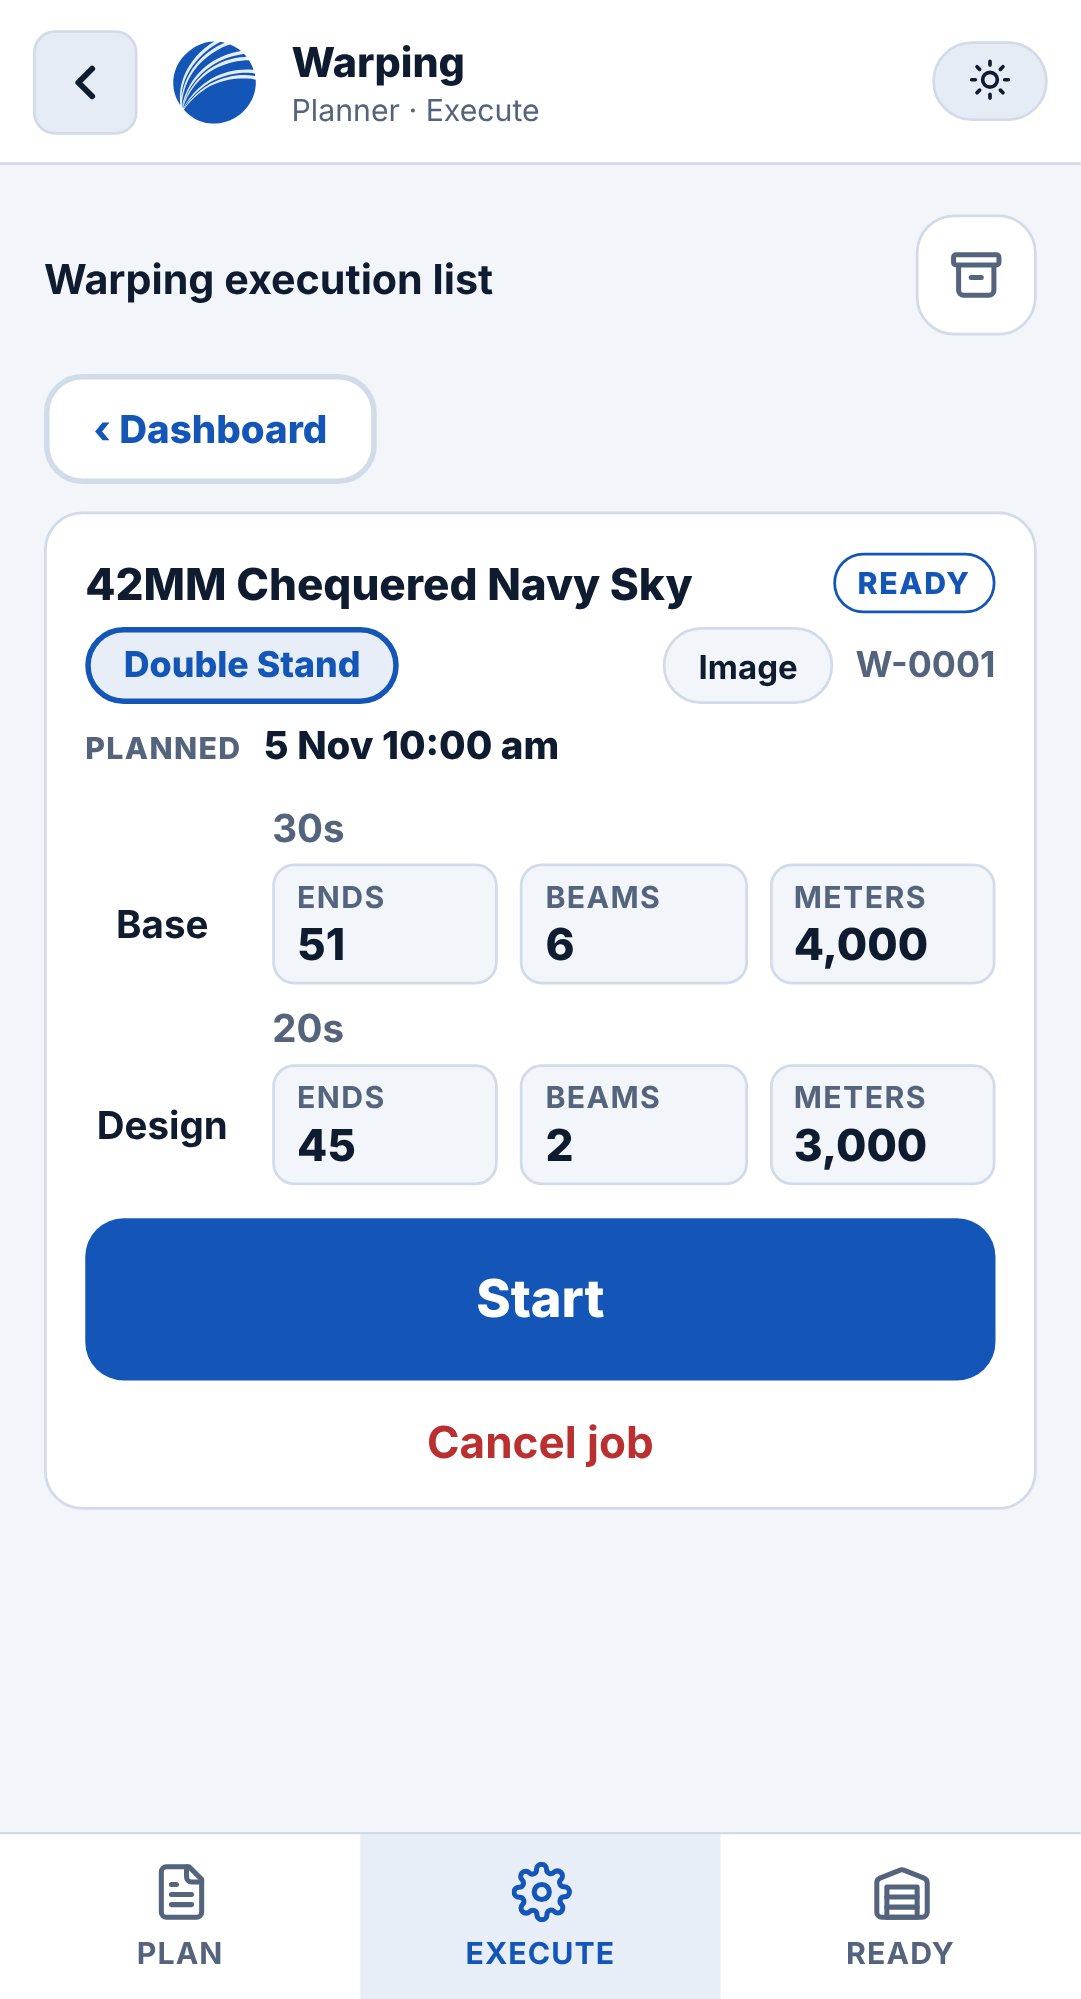
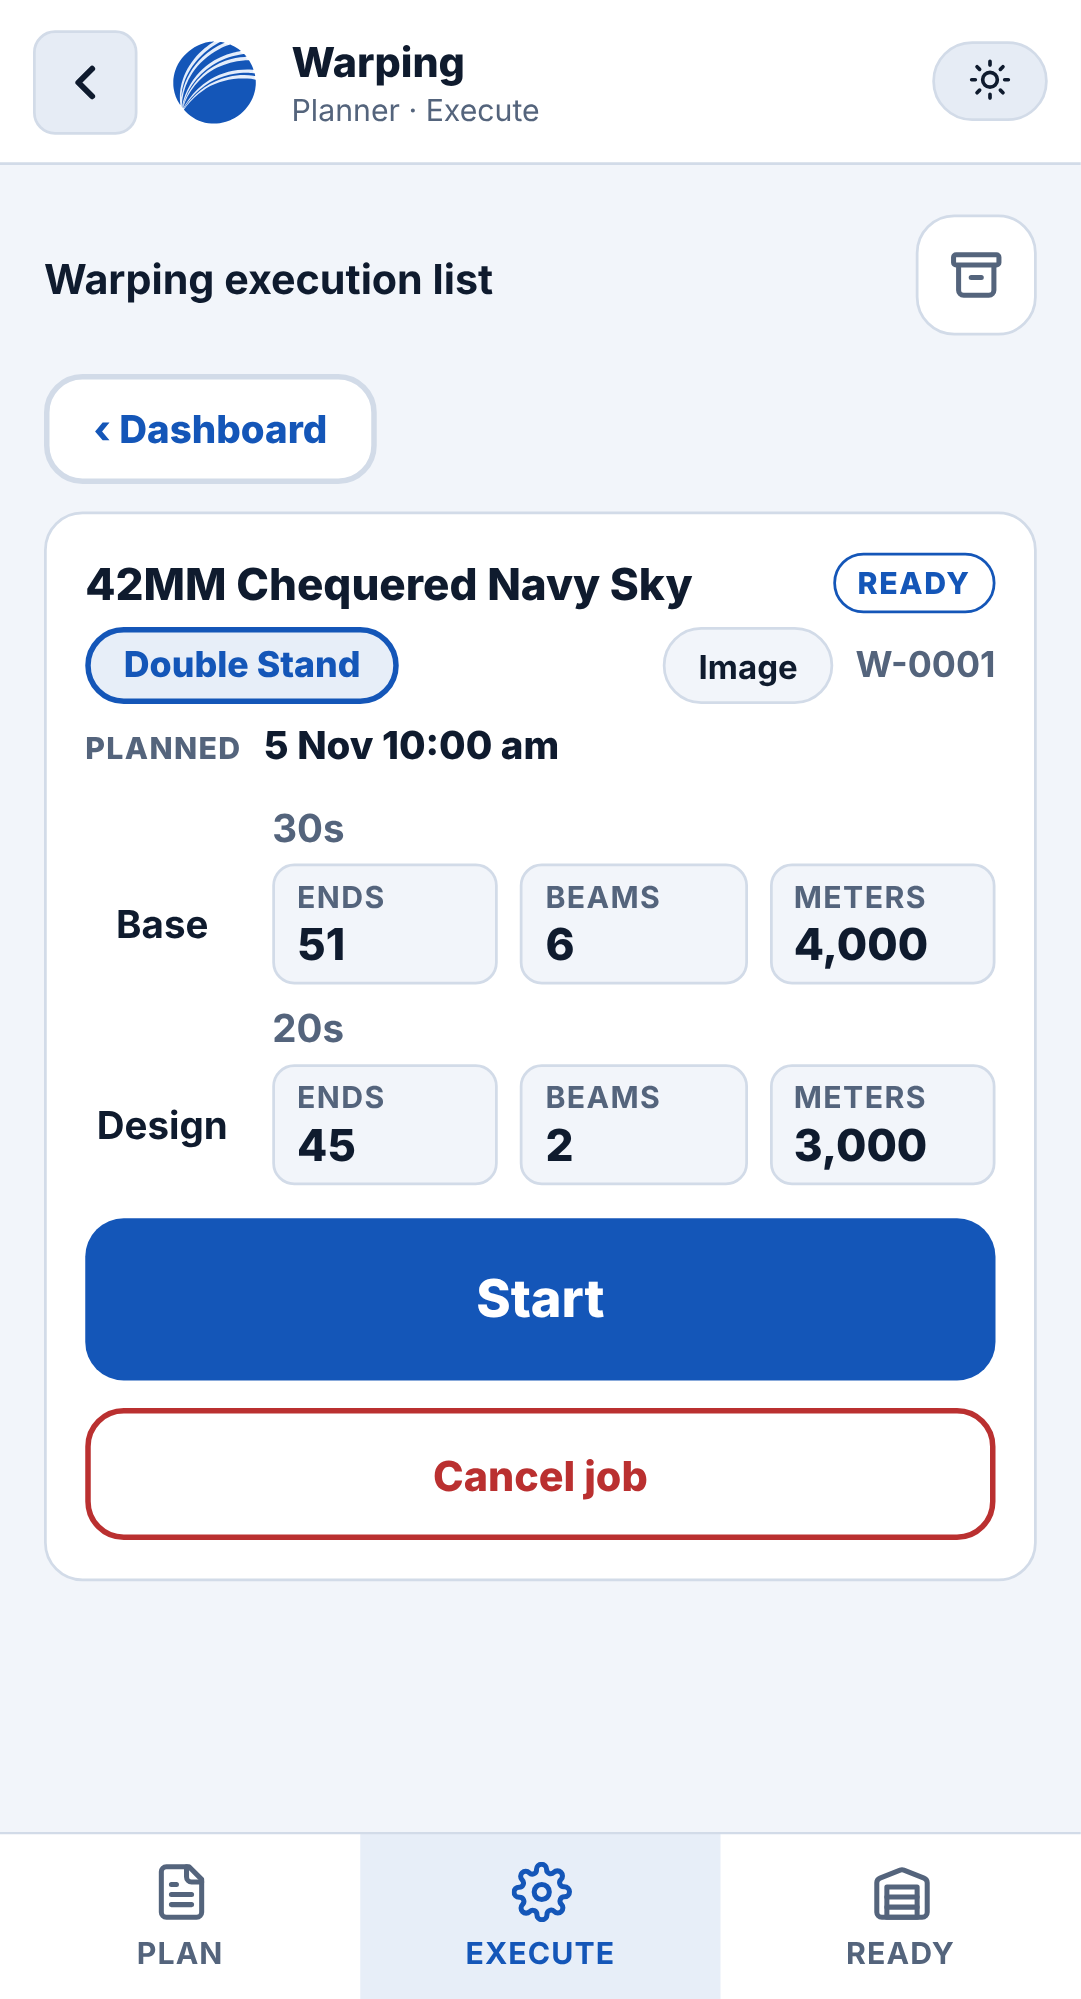
Warping: notes optional, Add note button when empty (v185)
Claude-Session: https://claude.ai/code/session_013qk7FSdSmrsDn8iJYfp5m6

Changed region(s): [[0.0611, 0.6823, 0.9463, 0.7754], [0.8853, 0.6823, 0.9158, 0.7134], [0.0916, 0.6823, 0.1221, 0.7134]]

diff --git a/index.html b/index.html
@@ -674,6 +674,7 @@ button.wp-sbox{cursor:pointer}
 .wp-note{display:block;width:100%;box-sizing:border-box;margin-top:10px;padding:11px 12px;border:1px solid var(--border);border-radius:var(--radius);background:var(--bg);color:var(--text);font:inherit;font-size:17px;font-weight:600;line-height:1.35;resize:vertical;min-height:60px}.wp-note::placeholder{color:var(--text-muted);font-weight:500}.wp-note:focus{outline:none;border-color:var(--accent)}
 .wp-noterow{display:flex;gap:8px;align-items:stretch;margin-top:10px}.wp-noterow .wp-note{margin-top:0;flex:1;min-width:0}.wp-notesave{flex:none;width:48px;border-radius:var(--radius-sm);border:1px solid var(--accent-strong);background:var(--accent-strong);color:var(--on);display:grid;place-items:center;cursor:pointer}.wp-notesave .ic{width:24px;height:24px;stroke:var(--on)}.wp-notesave:disabled{opacity:.5}
 .wp-notev{display:flex;gap:10px;align-items:flex-start;justify-content:space-between;margin-top:10px;padding:10px 12px;border-radius:var(--radius);background:var(--accent-soft)}.wp-nvt{min-width:0;flex:1}.wp-nvt span{display:flex;align-items:center;gap:4px;font-size:12px;font-weight:700;letter-spacing:.5px;text-transform:uppercase;color:var(--text-muted)}.wp-nvt .ic{width:14px;height:14px;stroke:var(--success)}.wp-nvt p{margin:4px 0 0;font-size:17px;font-weight:600;line-height:1.35;color:var(--text);overflow-wrap:anywhere;white-space:pre-wrap}.wp-nved{flex:none;min-height:40px;padding:0 14px;border-radius:var(--radius-sm);border:1px solid var(--border);background:var(--surface);color:var(--accent-strong);font:inherit;font-weight:700;cursor:pointer}
+.wp-noteadd{margin-top:10px}.wp-addnote{display:block;width:100%;min-height:48px;border:2px dashed var(--border);border-radius:var(--radius);background:transparent;color:var(--accent-strong);font:inherit;font-size:15px;font-weight:800;cursor:pointer}
 .wp-ok{position:fixed;top:45%;left:50%;transform:translate(-50%,-50%);z-index:60;background:var(--surface);border:2px solid var(--accent-strong);color:var(--text);border-radius:30px;padding:14px 28px;font-weight:700;font-size:16px;text-align:center;box-shadow:0 8px 32px rgba(0,0,0,.45);pointer-events:none;animation:wpokf 2.6s forwards}@keyframes wpokf{0%,80%{opacity:1}100%{opacity:0}}
 @media(min-width:900px){.wp-list{display:grid;grid-template-columns:1fr 1fr;gap:0 12px;align-items:start}}
 .dc-del{background:none;border:none;color:var(--danger);font:inherit;font-weight:700;padding:12px 0 0;cursor:pointer}
@@ -1336,7 +1337,7 @@ input:focus-visible,select:focus-visible,textarea:focus-visible{outline-offset:0
       <svg id="refreshIcon" width="13" height="13" viewBox="0 0 24 24" fill="none" stroke="currentColor" stroke-width="2.5" stroke-linecap="round" stroke-linejoin="round"><polyline points="23 4 23 10 17 10"/><polyline points="1 20 1 14 7 14"/><path d="M3.51 9a9 9 0 0 1 14.85-3.36L23 10M1 14l4.64 4.36A9 9 0 0 0 20.49 15"/></svg>
       <span class="rlabel">Refresh</span>
     </button>
-    <span class="app-ver" id="appVer" title="App version">v184</span>
+    <span class="app-ver" id="appVer" title="App version">v185</span>
     <button class="theme-btn" onclick="toggleTheme()" id="themeBtn" aria-label="Toggle theme"><svg class="ic" aria-hidden="true"><use href="#i-moon"/></svg></button>
   </div>
 </header>
@@ -3398,6 +3399,7 @@ var WP=(function(){
   }
   var noteEd=null;
   function noteBox(j){
+    if(!j.note&&noteEd!==j.id)return '<div class="wp-noteadd" data-wp-nrow="'+esc(j.id)+'"><button type="button" class="wp-addnote" data-wp-noteedit="'+esc(j.id)+'">+ Add note</button></div>';
     if(j.note&&noteEd!==j.id)return '<div class="wp-notev" data-wp-nrow="'+esc(j.id)+'"><div class="wp-nvt"><span><svg class="ic" aria-hidden="true"><use href="#i-check"/></svg>Note saved</span><p>'+esc(j.note)+'</p></div><button type="button" class="wp-nved" data-wp-noteedit="'+esc(j.id)+'">Edit</button></div>';
     return '<div class="wp-noterow" data-wp-nrow="'+esc(j.id)+'"><textarea class="wp-note" rows="2" maxlength="300" data-wp-note="'+esc(j.id)+'" placeholder="Add a note" aria-label="Note for '+esc(j.tape)+'">'+esc(j.note||'')+'</textarea><button type="button" class="wp-notesave" data-wp-notesave="'+esc(j.id)+'" aria-label="Save note"><svg class="ic" aria-hidden="true"><use href="#i-check"/></svg></button></div>';
   }
@@ -3413,7 +3415,7 @@ var WP=(function(){
       +'<div class="wp-yarns"><div><span>Base yarn</span><b>'+esc(v.baseYarn||'—')+'</b></div><div><span>Design yarn</span><b>'+esc(v.designYarn||'—')+'</b></div></div>'
       +'<div class="wp-grid"><div><h4>Base</h4><div class="wp-ends">Ends <b>'+n(v.baseEnds)+'</b></div><label>No. of beams<input id="wpBB" type="number" inputmode="numeric" min="0" max="99"></label><label>Meters per beam<input id="wpBM" type="number" inputmode="numeric" min="0"></label></div>'
       +'<div><h4>Design</h4><div class="wp-ends">Ends <b>'+n(v.designEnds)+'</b></div><label>No. of beams<input id="wpDB" type="number" inputmode="numeric" min="0" max="99"></label><label>Meters per beam<input id="wpDM" type="number" inputmode="numeric" min="0"></label></div></div>'
-      +'<textarea class="wp-note" id="wpNote" rows="2" maxlength="300" placeholder="Add a note" aria-label="Note"></textarea>'
+      +'<div id="wpNoteWrap" class="wp-noteadd"><button type="button" class="wp-addnote" data-wp-addnote="1">+ Add note</button></div>'
       +'<div class="us-err" id="wpErr" role="alert"></div><button type="button" class="btn-submit" id="wpSave" data-wp-save="1">Add to planning</button></div>';
     return h;
   }
@@ -3544,7 +3546,7 @@ var WP=(function(){
     if((bb||bm)&&!(bb&&bm))return bad('Base needs both the number of beams and the meters');
     if((db||dm)&&!(db&&dm))return bad('Design needs both the number of beams and the meters');
     if(!bb&&!db)return bad('Enter the beams and meters for Base, Design, or both');
-    var t={id:'tmp'+Date.now(),tape:sel.name,stand:vr.stand,category:vr.category||'',status:'Planned',created:nowStamp(),by:ME?ME.name:'',baseEnds:vr.baseEnds||0,baseYarn:vr.baseYarn||'',baseBeams:bb,baseMeters:bm,designEnds:vr.designEnds||0,designYarn:vr.designYarn||'',designBeams:db,designMeters:dm,note:g('wpNote').trim().replace(/\s+/g,' ')};
+    var t={id:'tmp'+Date.now(),tape:sel.name,stand:vr.stand,category:vr.category||'',status:'Planned',created:nowStamp(),by:ME?ME.name:'',baseEnds:vr.baseEnds||0,baseYarn:vr.baseYarn||'',baseBeams:bb,baseMeters:bm,designEnds:vr.designEnds||0,designYarn:vr.designYarn||'',designBeams:db,designMeters:dm,note:($('wpNote')?$('wpNote').value:'').trim().replace(/\s+/g,' ')};
     var args={tape:sel.name,stand:vr.stand,baseBeams:g('wpBB'),baseMeters:g('wpBM'),designBeams:g('wpDB'),designMeters:g('wpDM'),note:t.note};
     ver++;jobs=(jobs||[]).concat([t]);if(board)board=[t].concat(board);bump('planning',1);
     msg='';sel=null;vr=null;qs='';draw();showToast('\u2713 Added to plan','success mid');
@@ -3609,6 +3611,7 @@ var WP=(function(){
     if((x=t.closest('[data-wp-bf]'))){bf=x.getAttribute('data-wp-bf');openJ=null;return draw();}
     if((x=t.closest('[data-wp-tab]'))){var nt=x.getAttribute('data-wp-tab');tab=(nt===tab&&nt!=='dash')?'dash':nt;if(tab!=='ana'){anaPin='';ana=null;}addT=null;sel=null;vr=null;editId=null;askId=null;msg='';draw();return refresh();}
     if((x=t.closest('[data-wp-tape]')))return pickTape(x.getAttribute('data-wp-tape'));
+    if((x=t.closest('[data-wp-addnote]'))){var w=$('wpNoteWrap');if(w){w.innerHTML='<textarea class="wp-note" id="wpNote" rows="2" maxlength="300" placeholder="Add a note" aria-label="Note"></textarea>';$('wpNote').focus();}return;}
     if((x=t.closest('[data-wp-noteedit]')))return swapNote(x.getAttribute('data-wp-noteedit'),true);
     if((x=t.closest('[data-wp-notesave]')))return saveNote(x.getAttribute('data-wp-notesave'),x);
     if((x=t.closest('[data-wp-exec]')))return toExec(x.getAttribute('data-wp-exec'));

diff --git a/sw.js b/sw.js
@@ -1,5 +1,5 @@
 // Suryatex OS service worker: fast shell, offline fallback. Never touches /api/*.
-const V = 'sx-v138';
+const V = 'sx-v139';
 const SHELL = ['/', '/logo.svg', '/manifest.json', '/icon-192.png', '/icon-512.png', '/apple-touch-icon.png'];
 
 self.addEventListener('install', (e) => {
